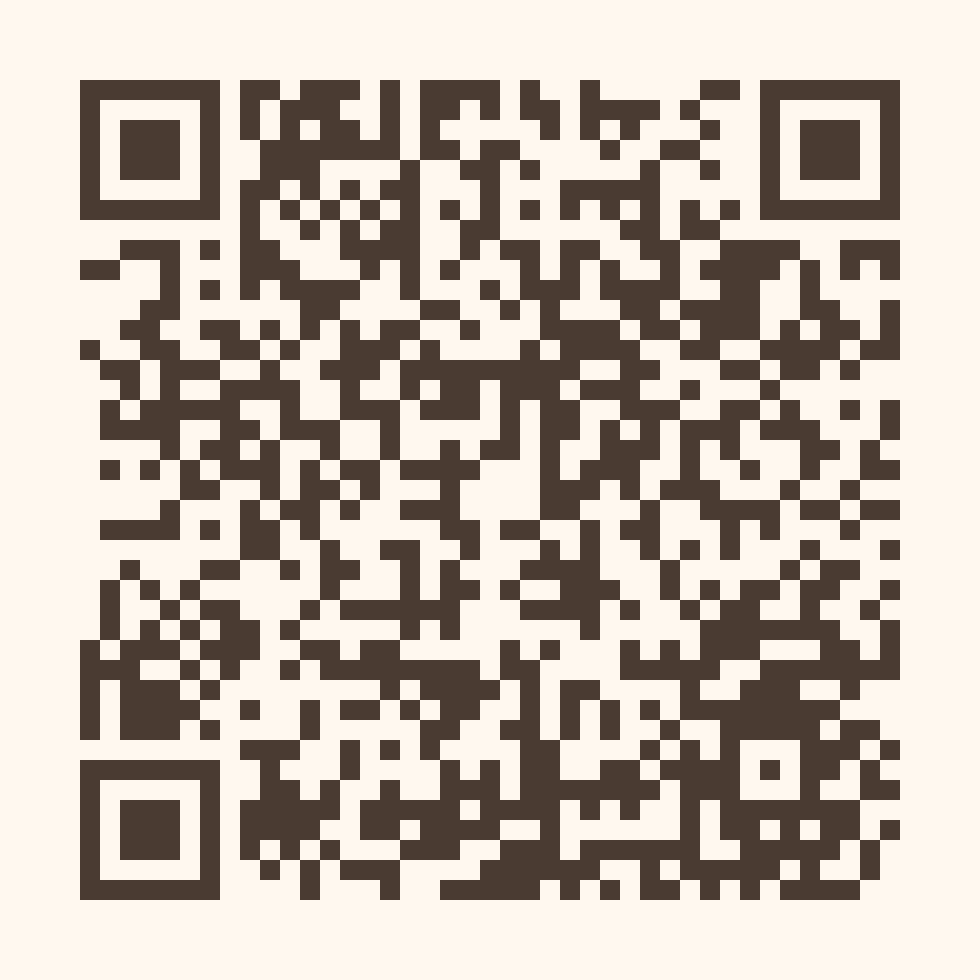
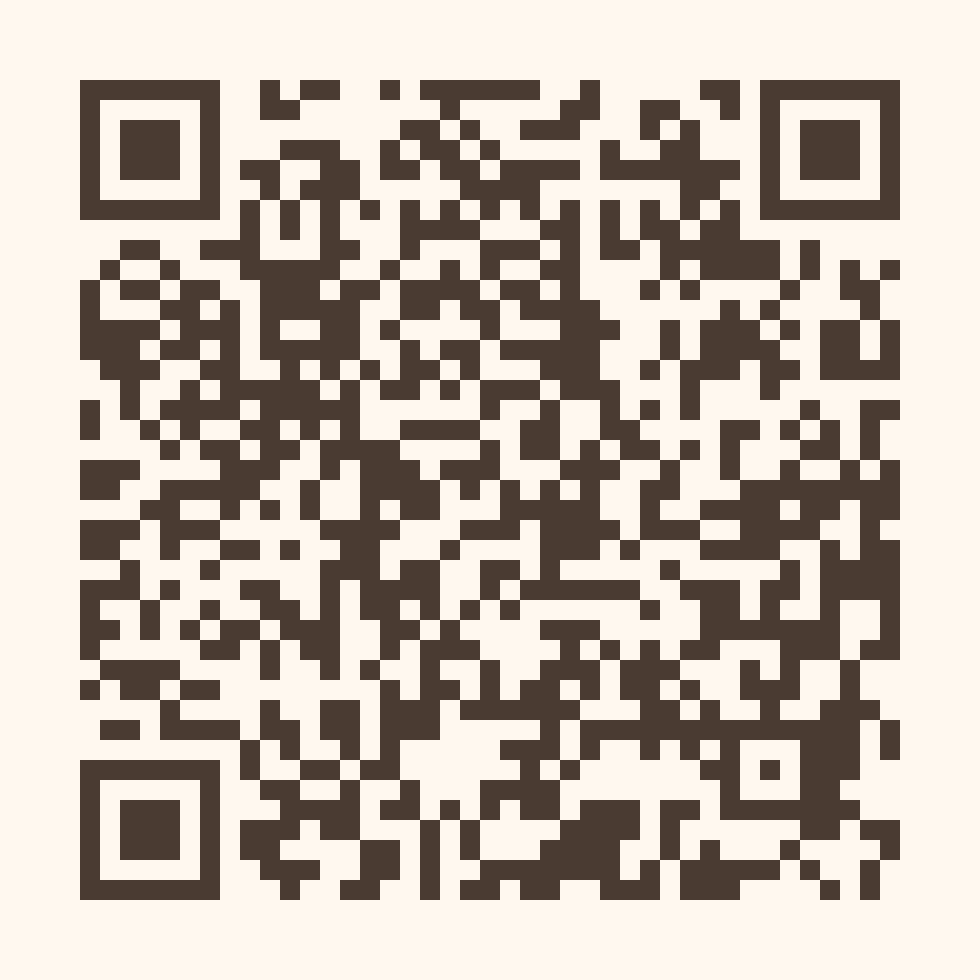
修改祝福语并更新二维码版本

Changed region(s): [[0.0612, 0.0612, 0.9184, 0.9184]]

diff --git a/index.html b/index.html
@@ -451,7 +451,7 @@ const CONFIG = {
     "四十年，说长不长，说短不短。你把最好的青春，活成了我的底气；把日复一日的辛劳，熬成家里温暖的烟火气。",
     "我总记得厨房里你忙碌的背影，记得每次晚归时你对我的担心，记得你明明早已疲惫，却总笑着说一句“没事”。",
     "往后，换我来好好叮嘱你。按时吃饭，早点休息，喜欢什么就去买，别总舍不得、心疼钱。",
-    "愿你身体康健，所愿皆所得；愿往后岁岁年年，都活得轻松自在，欢喜无忧。",
+    "愿你身体健康，所愿皆所得；愿往后岁岁年年，都活得轻松自在，欢喜无忧。",
     "生日快乐，我最爱的妈妈。"
   ],
   signature: "—— 你的孩子",
